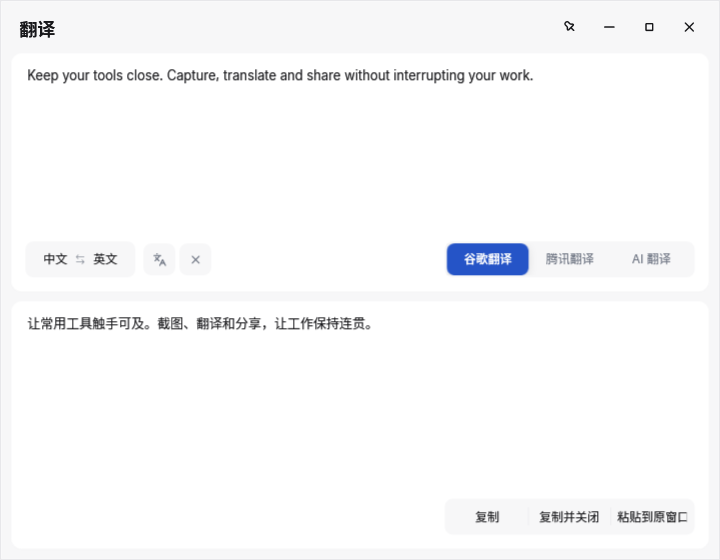
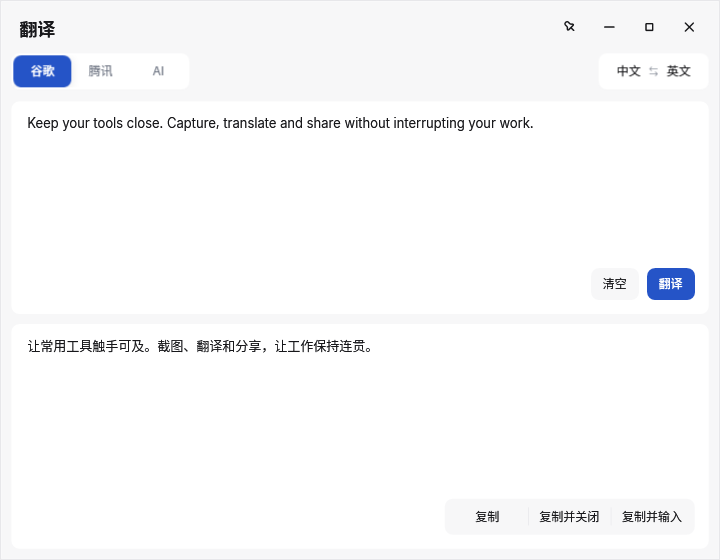
ui: align translation toolbar with clipboard and unify placeholders

diff --git a/Modules/Translation/TranslationPanel.xaml b/Modules/Translation/TranslationPanel.xaml
@@ -18,37 +18,6 @@
 
         <Style x:Key="TranslationTextBox" TargetType="TextBox" BasedOn="{StaticResource ToolPanelTextBox}"/>
 
-        <Style x:Key="SourceClearButton" TargetType="Button">
-            <Setter Property="AutomationProperties.Name" Value="{Binding ToolTip, RelativeSource={RelativeSource Self}}"/>
-            <Setter Property="Width" Value="32"/>
-            <Setter Property="Height" Value="32"/>
-            <Setter Property="Cursor" Value="Hand"/>
-            <Setter Property="Background" Value="{StaticResource SurfaceAltBrush}"/>
-            <Setter Property="Foreground" Value="{StaticResource TextSecondaryBrush}"/>
-            <Setter Property="BorderThickness" Value="0"/>
-            <Setter Property="FocusVisualStyle" Value="{StaticResource ModernFocusVisual}"/>
-            <Setter Property="Template">
-                <Setter.Value>
-                    <ControlTemplate TargetType="Button">
-                        <Border x:Name="b"
-                                Background="{TemplateBinding Background}"
-                                CornerRadius="{StaticResource CornerRadiusMedium}">
-                            <ContentPresenter HorizontalAlignment="Center"
-                                              VerticalAlignment="Center"/>
-                        </Border>
-                        <ControlTemplate.Triggers>
-                            <Trigger Property="IsMouseOver" Value="True">
-                                <Setter TargetName="b" Property="Background" Value="{StaticResource PrimarySoftBrush}"/>
-                                <Setter Property="Foreground" Value="{StaticResource TextPrimaryBrush}"/>
-                            </Trigger>
-                            <Trigger Property="IsPressed" Value="True">
-                                <Setter TargetName="b" Property="Opacity" Value="0.82"/>
-                            </Trigger>
-                        </ControlTemplate.Triggers>
-                    </ControlTemplate>
-                </Setter.Value>
-            </Setter>
-        </Style>
         <ControlTemplate x:Key="TranslationLanguageComboToggleTemplate" TargetType="ToggleButton">
             <Border x:Name="Root"
                     Background="{TemplateBinding Background}"
@@ -173,54 +142,25 @@
         </Style>
     </Window.Resources>
 
-    <Grid Margin="10,52,10,10">
+    <Grid Style="{StaticResource ToolPanelContentLayout}">
         <Grid.RowDefinitions>
+            <RowDefinition Height="Auto"/>
             <RowDefinition Height="1*" MinHeight="120"/>
             <RowDefinition Height="1.08*" MinHeight="160"/>
         </Grid.RowDefinitions>
 
-        <!-- 上半部:输入 + 工具栏 -->
-        <Border Grid.Row="0"
-                Style="{StaticResource TranslationPane}">
-            <Grid>
-                <Grid.RowDefinitions>
-                    <RowDefinition Height="*"/>
-                    <RowDefinition Height="Auto"/>
-                </Grid.RowDefinitions>
-
-                <Grid Grid.Row="0">
-                <TextBox x:Name="txtSource"
-                         Style="{StaticResource TranslationTextBox}"
-                         TextWrapping="Wrap"
-                         AcceptsReturn="True"
-                         VerticalScrollBarVisibility="Auto"
-                         AutomationProperties.Name="翻译原文"
-                         TextChanged="TxtSource_TextChanged"/>
-                <TextBlock x:Name="srcWatermark"
-                           Text="输入或粘贴要翻译的内容"
-                           FontSize="{StaticResource FontSizeBody}"
-                           Foreground="{StaticResource TextSecondaryBrush}"
-                           Opacity="0.86"
-                           IsHitTestVisible="False"
-                           VerticalAlignment="Top"
-                           Margin="0,0,0,0"/>
-                </Grid>
-
-                <!-- 翻译参数属于输入条件，收进输入面板底部。 -->
-                <Grid Grid.Row="1" Margin="0,10,0,0">
+        <!-- 与剪贴板历史共用标题下的筛选栏布局。 -->
+        <Grid Grid.Row="0" Style="{StaticResource ToolPanelHeaderRow}">
                     <Grid.ColumnDefinitions>
                         <ColumnDefinition Width="Auto"/>
-                        <ColumnDefinition Width="Auto"/>
                         <ColumnDefinition Width="*"/>
-                        <ColumnDefinition Width="Auto"/>
                     </Grid.ColumnDefinitions>
 
                     <!-- 提供商切换 -->
-                    <Border Grid.Column="3"
+                    <Border Grid.Column="0"
                             x:Name="providerContainer"
                             Style="{StaticResource SegmentedContainer}"
-                            Background="{StaticResource SurfaceAltBrush}"
-                            Effect="{x:Null}">
+                            HorizontalAlignment="Left">
                         <Grid x:Name="providerSegmentGrid" Height="32" ClipToBounds="True">
                             <Border x:Name="providerSlider"
                                     Style="{StaticResource SegmentedSlider}"
@@ -235,25 +175,27 @@
 
                             <Grid>
                                 <Grid.ColumnDefinitions>
-                                    <ColumnDefinition Width="Auto" MinWidth="82"/>
-                                    <ColumnDefinition Width="Auto" MinWidth="82"/>
-                                    <ColumnDefinition Width="Auto" MinWidth="82"/>
+                                    <ColumnDefinition Width="Auto" MinWidth="58"/>
+                                    <ColumnDefinition Width="Auto" MinWidth="58"/>
+                                    <ColumnDefinition Width="Auto" MinWidth="58"/>
                                 </Grid.ColumnDefinitions>
-                                <Button x:Name="btnProviderGoogle" Grid.Column="0" Style="{StaticResource SegmentedButton}" MinWidth="82" Click="Provider_Click" Tag="on" Content="谷歌翻译"/>
-                                <Button x:Name="btnProviderTencent" Grid.Column="1" Style="{StaticResource SegmentedButton}" MinWidth="82" Click="Provider_Click" Content="腾讯翻译"/>
-                                <Button x:Name="btnProviderAi" Grid.Column="2" Style="{StaticResource SegmentedButton}" MinWidth="82" Click="Provider_Click" Content="AI 翻译"/>
+                                <Button x:Name="btnProviderGoogle" Grid.Column="0" Style="{StaticResource SegmentedButton}" MinWidth="58" Click="Provider_Click" Tag="on" Content="谷歌"/>
+                                <Button x:Name="btnProviderTencent" Grid.Column="1" Style="{StaticResource SegmentedButton}" MinWidth="58" Click="Provider_Click" Content="腾讯"/>
+                                <Button x:Name="btnProviderAi" Grid.Column="2" Style="{StaticResource SegmentedButton}" MinWidth="58" Click="Provider_Click" Content="AI"/>
                             </Grid>
                         </Grid>
                     </Border>
 
                     <!-- 翻译策略 -->
-                    <Border Grid.Column="0"
-                            Style="{StaticResource SegmentedContainer}"
-                            Background="{StaticResource SurfaceAltBrush}"
-                            Effect="{x:Null}">
+                    <Border Grid.Column="1"
+                            Style="{StaticResource ToolPanelHeaderField}"
+                            MinWidth="0"
+                            Padding="2"
+                            Margin="12,0,0,0">
                         <ComboBox x:Name="cmbMode"
                                   Style="{StaticResource TranslationLanguageComboBox}"
                                   Width="106"
+                                  HorizontalAlignment="Stretch"
                                   Height="32"
                                   AutomationProperties.Name="切换翻译语言"
                                   SelectedIndex="0"
@@ -326,50 +268,35 @@
                         </ComboBox>
                     </Border>
 
-                    <StackPanel x:Name="sourceActions"
-                                Grid.Column="1"
-                                Orientation="Horizontal"
-                                HorizontalAlignment="Left"
-                                VerticalAlignment="Center"
-                                Margin="8,0,0,0"
-                                Visibility="Collapsed">
-                        <Button x:Name="btnTranslateSource"
-                                Style="{StaticResource SourceClearButton}"
-                                ToolTip="翻译 (Ctrl+Enter)"
-                                Click="BtnTranslateSource_Click">
-                            <Viewbox Style="{StaticResource ToolIconSmall}">
-                                <Canvas Width="24" Height="24">
-                                    <Path x:Name="translationActionIcon" Data="{StaticResource IconLanguages}"
-                                          Stroke="{Binding Foreground, RelativeSource={RelativeSource AncestorType=Button}}"
-                                          StrokeThickness="2"
-                                          StrokeStartLineCap="Round"
-                                          StrokeEndLineCap="Round"
-                                          StrokeLineJoin="Round"/>
-                                </Canvas>
-                            </Viewbox>
-                        </Button>
-                        <Button x:Name="btnClearSource"
-                                Style="{StaticResource SourceClearButton}"
-                                Margin="4,0,0,0"
-                                ToolTip="清空"
-                                Click="BtnClearSource_Click">
-                            <Viewbox Style="{StaticResource ToolIconSmall}">
-                                <Canvas Width="24" Height="24">
-                                    <Path Data="{StaticResource IconX}"
-                                          Stroke="{Binding Foreground, RelativeSource={RelativeSource AncestorType=Button}}"
-                                          StrokeThickness="2"
-                                          StrokeStartLineCap="Round"
-                                          StrokeEndLineCap="Round"/>
-                                </Canvas>
-                            </Viewbox>
-                        </Button>
-                    </StackPanel>
+        </Grid>
+
+        <Border Grid.Row="1" Style="{StaticResource TranslationPane}" Margin="0,4,0,0">
+            <Grid>
+                <Grid.RowDefinitions>
+                    <RowDefinition Height="*"/>
+                    <RowDefinition Height="Auto"/>
+                </Grid.RowDefinitions>
+                <Grid>
+                    <TextBox x:Name="txtSource" Style="{StaticResource TranslationTextBox}"
+                             TextWrapping="Wrap" AcceptsReturn="True" VerticalScrollBarVisibility="Auto"
+                             AutomationProperties.Name="翻译原文"
+                             AutomationProperties.HelpText="Enter 翻译，Shift+Enter 换行"
+                             TextChanged="TxtSource_TextChanged"/>
+                    <TextBlock x:Name="srcWatermark" Style="{StaticResource InputPlaceholderText}"
+                               Text="输入或粘贴要翻译的内容&#10;Enter 翻译 · Shift+Enter 换行"/>
                 </Grid>
+                <StackPanel Grid.Row="1" Orientation="Horizontal" HorizontalAlignment="Right" Margin="0,10,0,0">
+                    <Button x:Name="btnClearSource" Style="{StaticResource ToolPanelSecondaryButton}"
+                            Content="清空" IsEnabled="False" Click="BtnClearSource_Click"/>
+                    <Button x:Name="btnTranslateSource" Style="{StaticResource ToolPanelPrimaryButton}"
+                            Content="翻译" IsEnabled="False" Margin="8,0,0,0"
+                            ToolTip="翻译 (Ctrl+Enter)" Click="BtnTranslateSource_Click"/>
+                </StackPanel>
             </Grid>
         </Border>
 
         <!-- 下半部:翻译结果 -->
-        <Border Grid.Row="1"
+        <Border Grid.Row="2"
                 Style="{StaticResource TranslationPane}"
                 Margin="0,10,0,0">
             <Grid>
@@ -397,13 +324,7 @@
                          VerticalScrollBarVisibility="Auto"
                          TextChanged="TxtTarget_TextChanged"/>
                 <TextBlock x:Name="tgtWatermark" Grid.Row="1"
-                            Text="翻译结果"
-                            FontSize="{StaticResource FontSizeBody}"
-                            Foreground="{StaticResource TextSecondaryBrush}"
-                            Opacity="0.86"
-                            IsHitTestVisible="False"
-                            VerticalAlignment="Top"
-                            Margin="0"/>
+                           Style="{StaticResource InputPlaceholderText}" Text="翻译结果"/>
 
                 <!-- Loading indicator -->
                 <Border x:Name="loadingIndicator" Grid.Row="1"
@@ -417,7 +338,7 @@
                         Style="{StaticResource SegmentedContainer}"
                         Background="{StaticResource SurfaceAltBrush}"
                         Effect="{x:Null}"
-                        Width="{Binding ActualWidth, ElementName=providerContainer}"
+                        MinWidth="250"
                         HorizontalAlignment="Right"
                         VerticalAlignment="Bottom">
                     <Grid>
@@ -456,7 +377,7 @@
                                 Grid.Column="4"
                                 Style="{StaticResource FloatingAction}"
                                 Padding="6,0"
-                                Content="粘贴到原窗口"
+                                Content="复制并输入"
                                 Click="BtnCopyInput_Click"/>
                     </Grid>
                 </Border>

diff --git a/Styles/Windows.xaml b/Styles/Windows.xaml
@@ -183,6 +183,30 @@
         <Setter Property="Effect" Value="{StaticResource PaneShadow}"/>
     </Style>
 
+    <!-- 工具窗口共用标题到筛选栏、筛选栏到内容的间距。 -->
+    <Style x:Key="ToolPanelContentLayout" TargetType="Grid">
+        <Setter Property="Margin" Value="10,52,10,10"/>
+    </Style>
+    <Style x:Key="ToolPanelHeaderRow" TargetType="Grid">
+        <Setter Property="Margin" Value="0,0,0,8"/>
+        <Setter Property="Height" Value="36"/>
+    </Style>
+
+    <!-- 剪贴板搜索与翻译语言选择共用的标题下右侧控件。 -->
+    <Style x:Key="ToolPanelHeaderField" TargetType="Border" BasedOn="{StaticResource ToolPanelToolbarSurface}">
+        <Setter Property="Height" Value="36"/>
+        <Setter Property="Padding" Value="12,0"/>
+        <Setter Property="HorizontalAlignment" Value="Right"/>
+        <Setter Property="MinWidth" Value="218"/>
+        <Setter Property="MaxWidth" Value="300"/>
+        <Setter Property="Width" Value="Auto"/>
+        <Style.Triggers>
+            <Trigger Property="IsKeyboardFocusWithin" Value="True">
+                <Setter Property="BorderBrush" Value="{StaticResource PrimaryBrush}"/>
+            </Trigger>
+        </Style.Triggers>
+    </Style>
+
     <Style x:Key="ToolPanelTextBox" TargetType="TextBox">
         <Setter Property="Background" Value="{StaticResource SurfaceBrush}"/>
         <Setter Property="Foreground" Value="{StaticResource TextPrimaryBrush}"/>
@@ -365,6 +389,16 @@
         <Setter Property="Foreground" Value="{StaticResource TextSecondaryBrush}"/>
         <Setter Property="Opacity" Value="0.78"/>
         <Setter Property="TextWrapping" Value="Wrap"/>
+    </Style>
+
+    <!-- 空输入区占位提示：与内容同字号，颜色较轻，输入后由页面隐藏。 -->
+    <Style x:Key="InputPlaceholderText" TargetType="TextBlock" BasedOn="{StaticResource HintText}">
+        <Setter Property="FontSize" Value="{StaticResource FontSizeContent}"/>
+        <Setter Property="Opacity" Value="0.72"/>
+        <Setter Property="LineHeight" Value="22"/>
+        <Setter Property="LineStackingStrategy" Value="BlockLineHeight"/>
+        <Setter Property="IsHitTestVisible" Value="False"/>
+        <Setter Property="VerticalAlignment" Value="Top"/>
     </Style>
 
     <Style x:Key="ListRowStyle" TargetType="Border">

diff --git a/Modules/Clipboard/ClipboardPanel.xaml b/Modules/Clipboard/ClipboardPanel.xaml
@@ -151,20 +151,6 @@
             <Setter Property="Margin" Value="0,6,6,0"/>
         </Style>
 
-        <Style x:Key="ClipboardSearchSurface" TargetType="Border" BasedOn="{StaticResource ToolPanelToolbarSurface}">
-            <Setter Property="Height" Value="36"/>
-            <Setter Property="Padding" Value="12,0"/>
-            <Setter Property="HorizontalAlignment" Value="Right"/>
-            <Setter Property="MinWidth" Value="218"/>
-            <Setter Property="MaxWidth" Value="300"/>
-            <Setter Property="Width" Value="Auto"/>
-            <Style.Triggers>
-                <Trigger Property="IsKeyboardFocusWithin" Value="True">
-                    <Setter Property="BorderBrush" Value="{StaticResource PrimaryBrush}"/>
-                </Trigger>
-            </Style.Triggers>
-        </Style>
-
         <Style x:Key="ClipboardListScrollBar" TargetType="ScrollBar">
             <Setter Property="Width" Value="10"/>
             <Setter Property="MinWidth" Value="10"/>
@@ -210,13 +196,13 @@
         </Style>
     </Window.Resources>
 
-    <Grid Margin="10,52,10,10">
+    <Grid Style="{StaticResource ToolPanelContentLayout}">
         <Grid.RowDefinitions>
             <RowDefinition Height="Auto"/>
             <RowDefinition Height="*"/>
         </Grid.RowDefinitions>
 
-        <Grid Grid.Row="0" Margin="0,0,0,8">
+        <Grid Grid.Row="0" Style="{StaticResource ToolPanelHeaderRow}">
             <Grid.ColumnDefinitions>
                 <ColumnDefinition Width="Auto"/>
                 <ColumnDefinition Width="*"/>
@@ -254,7 +240,7 @@
             </Border>
 
             <Border Grid.Column="1"
-                    Style="{StaticResource ClipboardSearchSurface}">
+                    Style="{StaticResource ToolPanelHeaderField}">
                 <Grid>
                     <Grid.ColumnDefinitions>
                         <ColumnDefinition Width="Auto"/>

diff --git a/Modules/Translation/TranslationPanel.xaml.cs b/Modules/Translation/TranslationPanel.xaml.cs
@@ -136,7 +136,6 @@ public partial class TranslationPanel : Window
     {
         var hasText = !string.IsNullOrEmpty(txtSource.Text);
         srcWatermark.Visibility = hasText ? Visibility.Collapsed : Visibility.Visible;
-        sourceActions.Visibility = hasText ? Visibility.Visible : Visibility.Collapsed;
         if (_busy)
             CancelCurrentTranslation();
 
@@ -167,7 +166,7 @@ public partial class TranslationPanel : Window
         {
             _busy = true;
             SetResultStatus("正在翻译…");
-            translationActionIcon.Data = (System.Windows.Media.Geometry)FindResource("IconX");
+            btnTranslateSource.Content = "取消";
             btnTranslateSource.ToolTip = "取消翻译";
             txtTarget.Text = string.Empty;
             loadingIndicator.Visibility = Visibility.Visible;
@@ -230,7 +229,7 @@ public partial class TranslationPanel : Window
     private void ResetTranslationUi()
     {
         _busy = false;
-        translationActionIcon.Data = (System.Windows.Media.Geometry)FindResource("IconLanguages");
+        btnTranslateSource.Content = "翻译";
         btnTranslateSource.ToolTip = "翻译 (Ctrl+Enter)";
         btnTranslateSource.IsEnabled = !string.IsNullOrWhiteSpace(txtSource.Text);
         actionBar.IsEnabled = _hasValidResult;

diff --git a/Tests/DesignInteractionTests.cs b/Tests/DesignInteractionTests.cs
@@ -48,7 +48,7 @@ public class DesignInteractionTests
                     var actions = (FrameworkElement)window.FindName("actionBar");
                     var statusPanel = (FrameworkElement)window.FindName("resultStatusPanel");
                     Assert.Equal(Visibility.Collapsed, statusPanel.Visibility);
-                    Assert.Equal("谷歌翻译", ((Button)window.FindName("btnProviderGoogle")).Content);
+                    Assert.Equal("谷歌", ((Button)window.FindName("btnProviderGoogle")).Content);
                     var translate = (Button)window.FindName("btnTranslateSource");
                     source.Text = "Hello";
                     service.Response = new TranslationResult { Success = false, ErrorMessage = "连接超时" };

diff --git a/docs/manual-regression-checklist.md b/docs/manual-regression-checklist.md
@@ -91,11 +91,11 @@ Run this checklist on Windows 10/11 after a release build. Record the OS version
 - [ ] At each tool window's minimum size, verify the primary action, search, language selector and result actions remain visible. Repeat on displays at 100%, 150% and 200% scale, including moving between monitors.
 - [ ] Translate successfully, then edit the source: verify the old result is marked stale and all copy/paste actions are disabled. Translate again to restore them.
 - [ ] Simulate a failed translation: verify the error is outside the result text, retry is available, and neither copy nor paste can export the error. With an unconfigured provider, verify the service-account link opens the account settings page.
-- [ ] Cancel a slow translation and start another; verify the earlier completion never replaces the new result. The action icon and its accessible tooltip must return from Cancel to Translate.
+- [ ] Cancel a slow translation and start another; verify the earlier completion never replaces the new result. The action button text and tooltip must return from Cancel to Translate.
 - [ ] Change settings repeatedly: verify inline pending/saved feedback, with no repeated success Toasts. Test failure messages stay visible and do not claim a successful save.
 - [ ] Test an AI model or Tencent translation account; verify its inline result is invalidated after changing credentials/model. A late test response must not validate different credentials.
 - [ ] In clipboard history, verify image previews, metadata, favorite controls and keyboard selection at minimum width. No extra bottom instruction row should appear.
-- [ ] With no translation input, verify language and full provider names share one toolbar row and only one result placeholder is visible. A successful translation has no extra status heading. OCR has no permanent instruction row; LAN details retain three aligned rows with device removal beside the code.
+- [ ] With no translation input, verify providers appear on the left below the title and language selection occupies the clipboard search position on the right. Clear and Translate stay at the input pane's bottom right, disabled until text is entered; only one result placeholder is visible. A successful translation has no extra status heading. OCR has no permanent instruction row; LAN details retain three aligned rows with device removal beside the code.
 - [ ] Edit OCR text, copy it and verify the window remains available for further correction. Ctrl+Enter copies; Esc closes.
 - [ ] During screenshot translation, verify recognition/translation/layout stage feedback and cancellation. The selected annotation tool has both a tint and an outline.
 - [ ] Open the tray menu using the keyboard: first item receives focus, Up/Down and Home/End navigate, Enter activates and Esc closes. Verify icon buttons have useful screen-reader names.

diff --git a/docs/design-review.md b/docs/design-review.md
@@ -4,8 +4,9 @@
 
 ## 当前界面
 
-- 翻译恢复一行工具栏：语言在左，完整名称的「谷歌翻译 / 腾讯翻译 / AI 翻译」在右，蓝底白字表示选中。翻译与清空使用原有图标，输入后出现。快捷键放在悬浮提示中。
-- 结果区只保留一个空状态提示。成功时直接显示译文；失败、取消、原文修改时才出现状态区域。复制、复制并关闭、粘贴到原窗口保持整组，并与引擎选择区域对齐。
+- 翻译采用剪贴板历史的标题下工具栏：左侧为「谷歌 / 腾讯 / AI」，蓝底白字表示选中；右侧为语言选择，与剪贴板搜索框共用容器样式。输入面板右下角为「清空」「翻译」文字按钮，翻译中显示「取消」，空白时禁用。输入为空时显示两行占位提示，包含 Enter 翻译、Shift+Enter 换行；上下占位文字共用 13 DIP 字号、0.72 透明度及 22 DIP 行高。
+- 翻译与剪贴板共用标题下布局和 36 DIP 工具栏；翻译首个面板补齐剪贴板记录的 4 DIP 顶部间距。引擎按钮与剪贴板分类均使用 58 DIP 最小宽度，结果操作宽度独立于引擎组。
+- 结果区只保留一个空状态提示。成功时直接显示译文；失败、取消、原文修改时才出现状态区域。复制、复制并关闭、复制并输入保持整组，位于结果区右下角。
 - OCR 恢复标题下直接进入内容区，删除常驻编辑说明。编辑能力、Ctrl+Enter 复制、Esc 关闭及复制后继续编辑保留。
 - 局域网连接区恢复目录、地址、验证码三行；移除设备回到验证码一行。二维码说明放入 ToolTip，添加文件与添加文件夹恢复相同按钮样式。连接后收起详情的功能保留。
 - 剪贴板恢复原有行布局和缩略图尺寸，移除新增底部说明；原有键盘操作保留。
